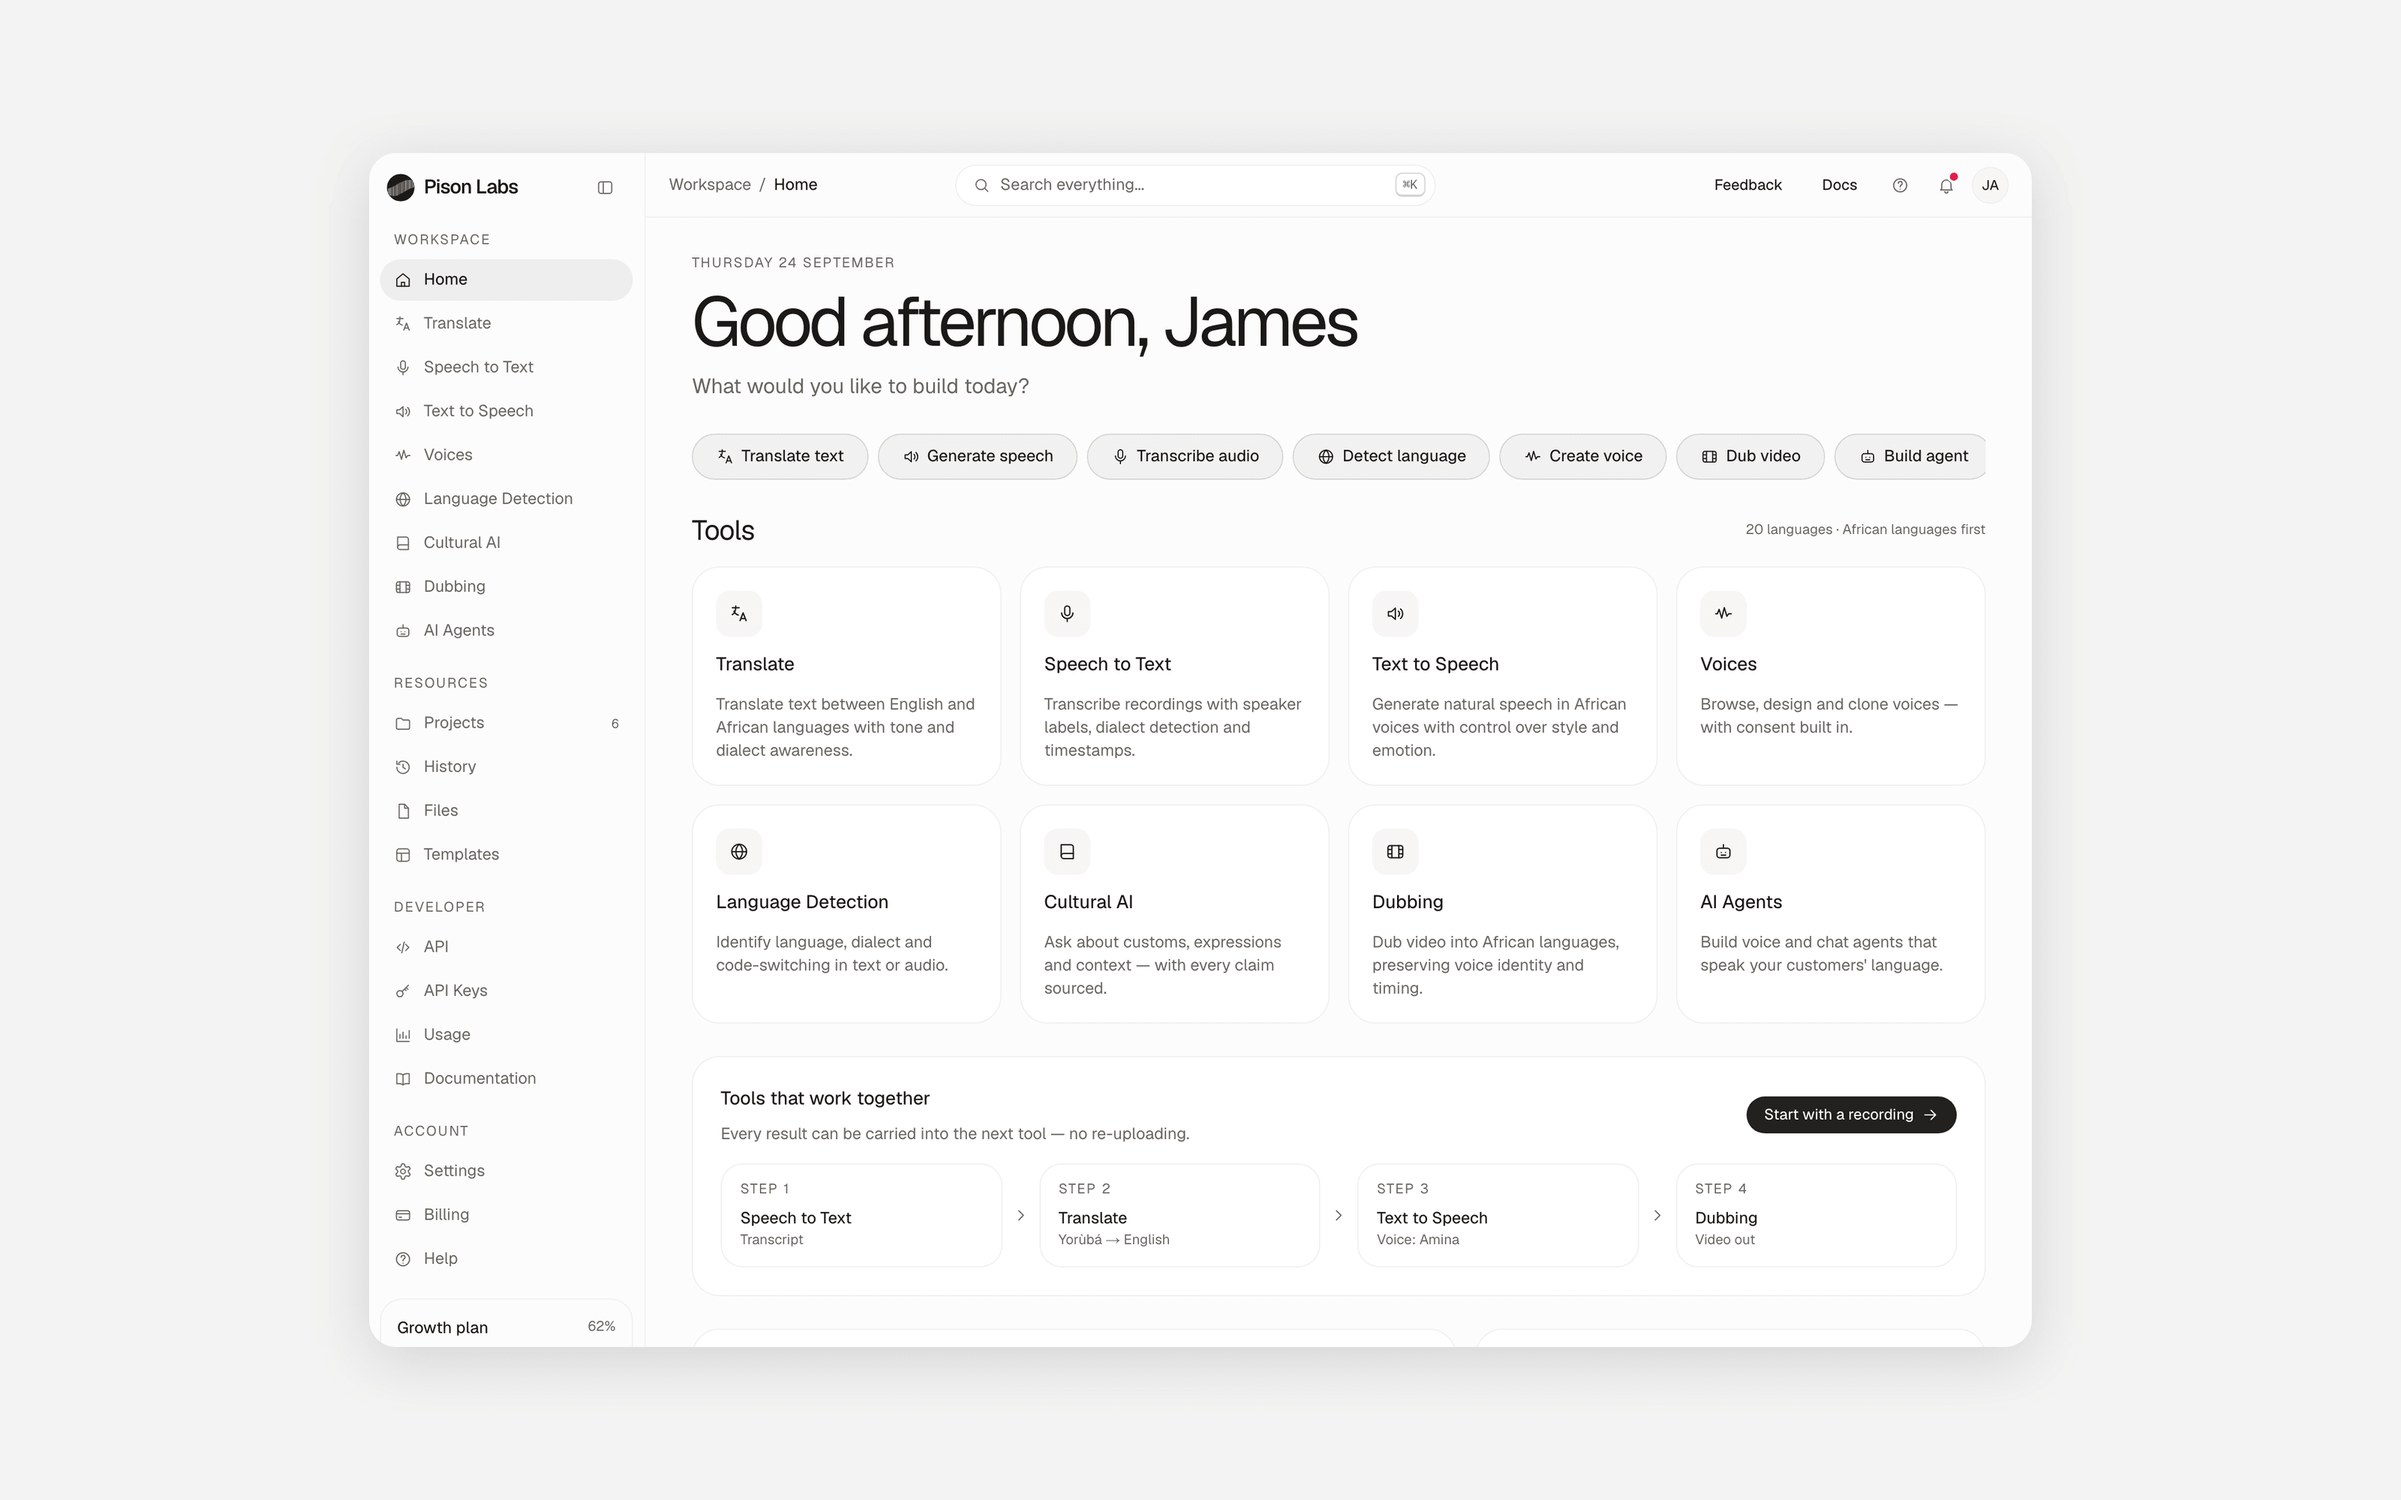
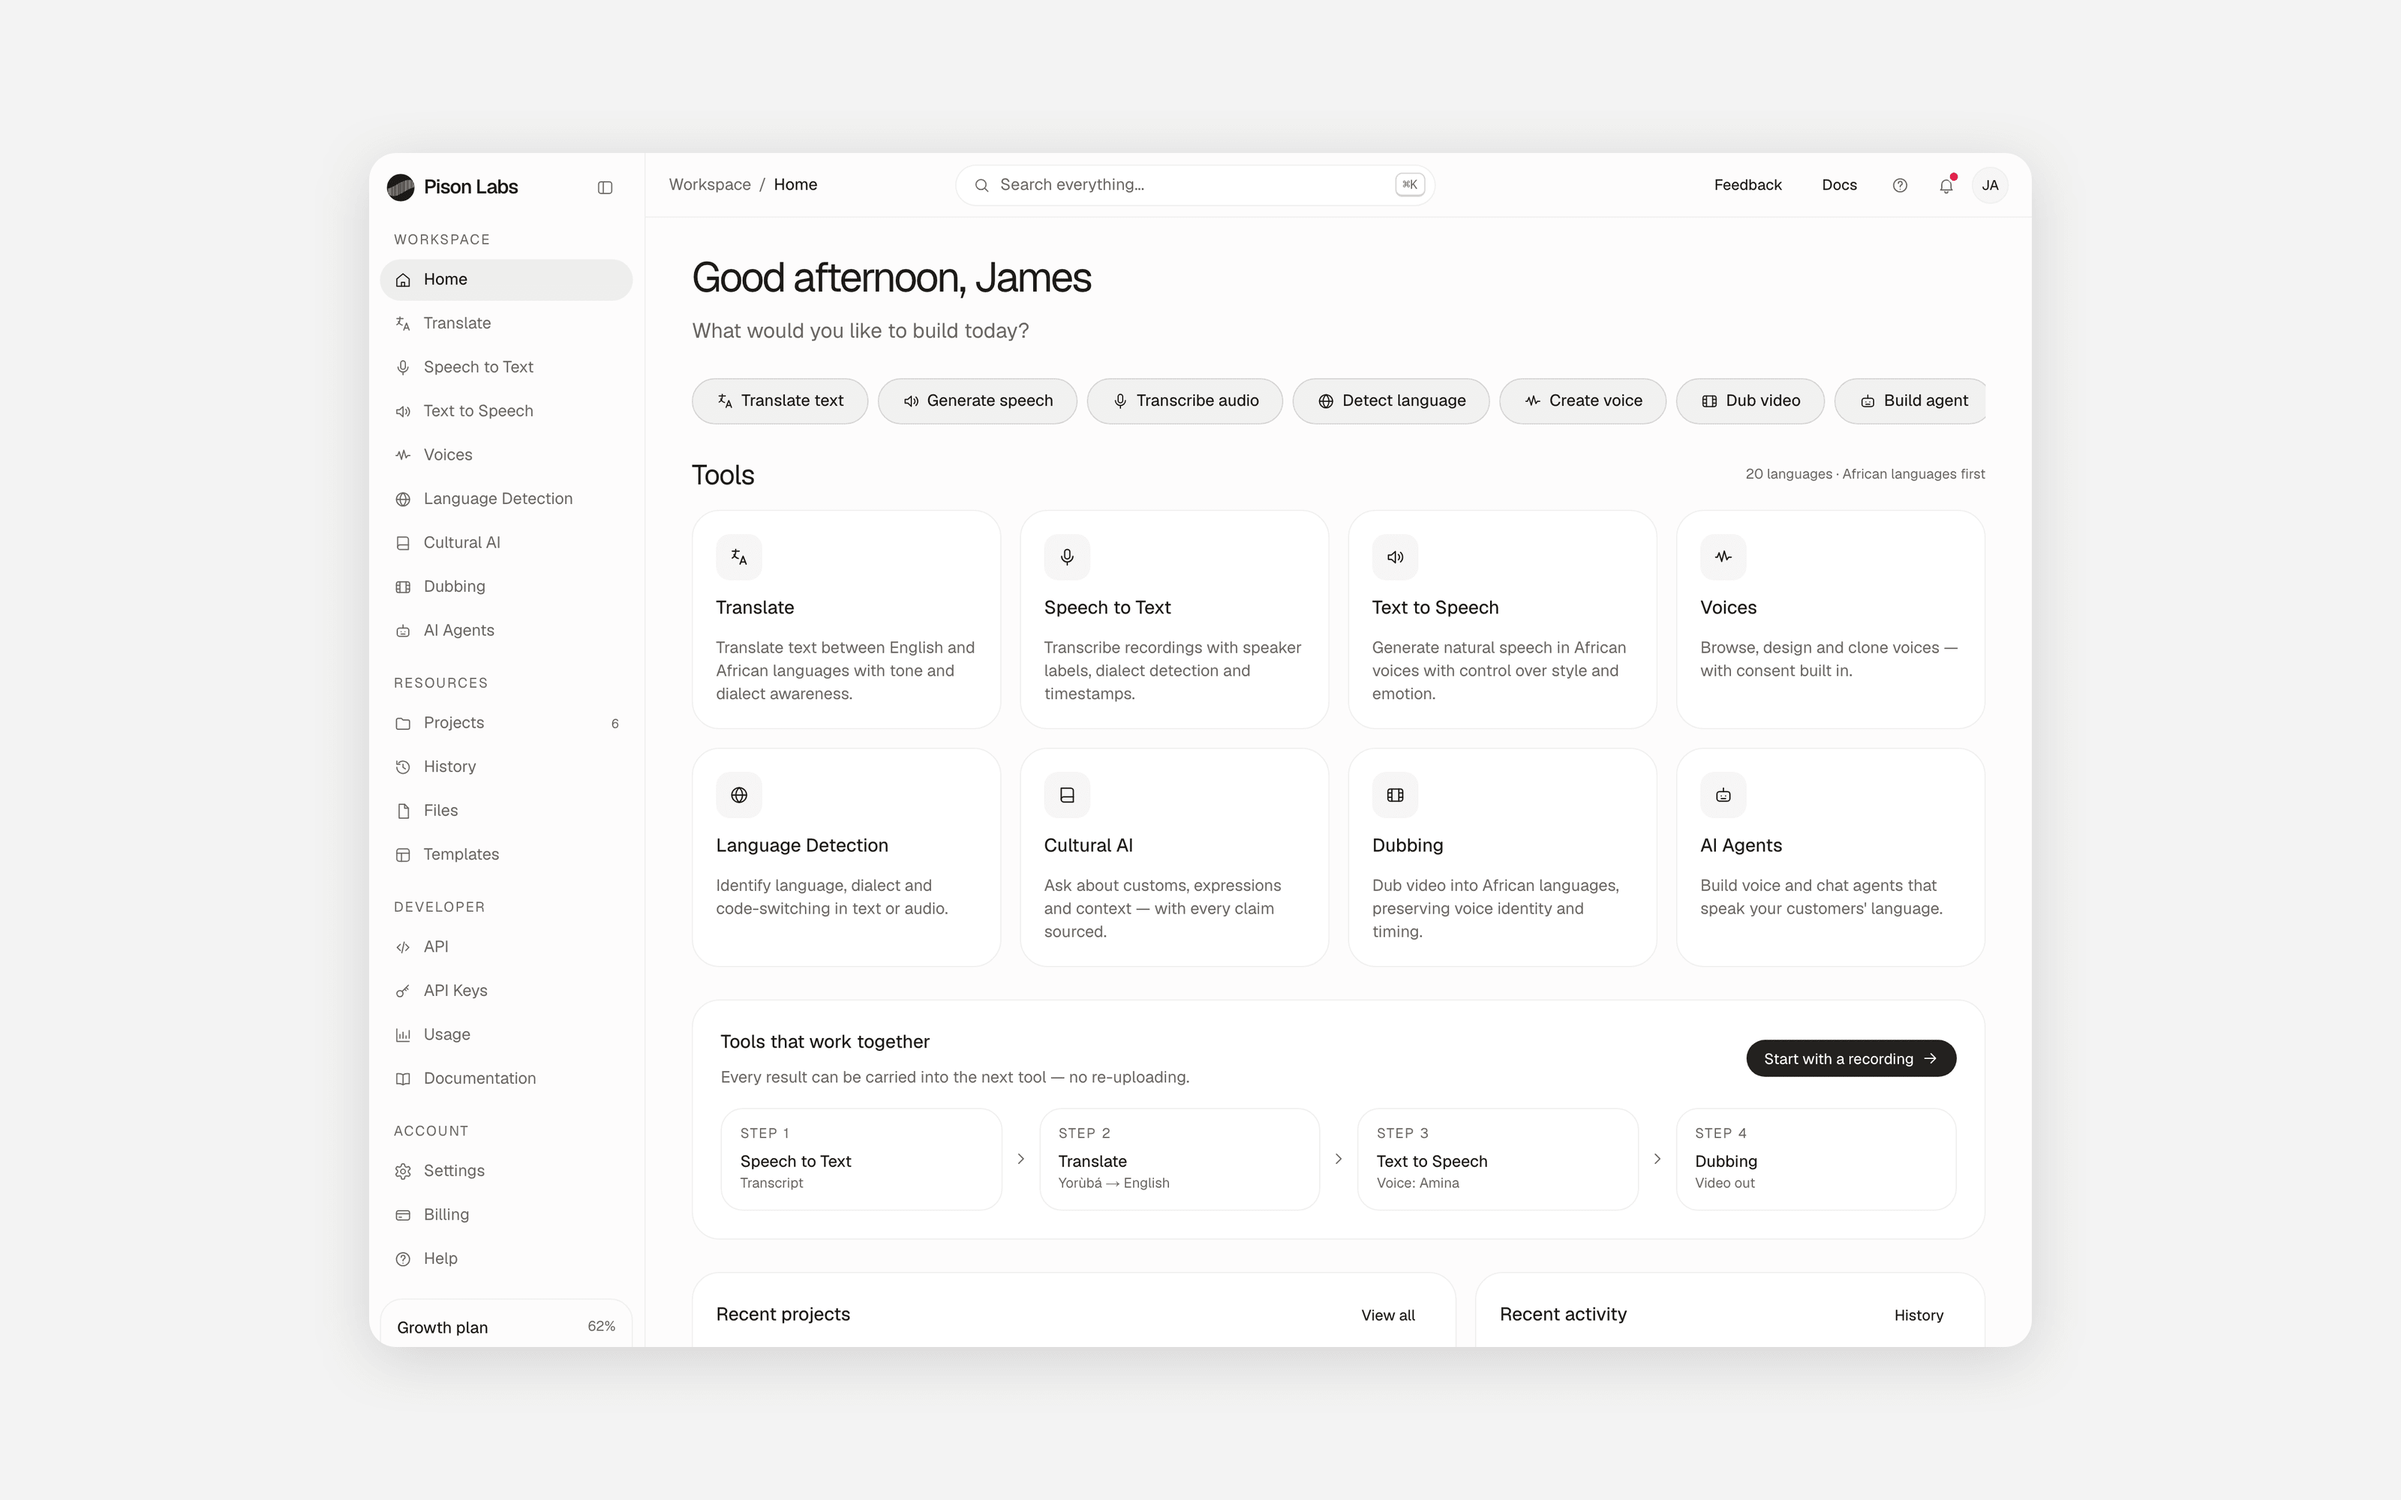
feat(pison-labs): shrink the workspace greeting and drop the date line
The workspace home was using .h-display for "Good afternoon, James", which that
design system reserves for the landing hero. At workspace width it rendered at
60px and made the greeting the loudest thing on a page whose actual job is the
tool grid underneath it. Moved to .h-page (36px), the ramp the system
prescribes for an app page, and removed the weekday/date line above it, which
told the user something they already knew.

Re-shot the three figures that show the home view. The reclaimed vertical space
means the hero now reaches Recent projects and Recent activity, and the
tool-chain figure reaches the language strip, so both show more of the product
than before. Adjusted one sentence in section 06 that described the telemetry
as below the fold, which is no longer the right word for what the figure shows.

diff --git a/src/components/PisonCaseStudy.tsx b/src/components/PisonCaseStudy.tsx
@@ -944,7 +944,7 @@ export function PisonCaseStudy({
             The workspace opens on a question rather than a dashboard. Most
             visits start with an intention, not with a metric, so the top of the
             page is seven verbs, the tool set sits under them, and telemetry (recent
-            projects, activity, usage) is below the fold where it belongs
+            projects, activity, usage) comes only after them, where it belongs
             for a creative tool.
           </p>
           <p className={`mt-4 sm:mt-5 ${PROSE}`}>
